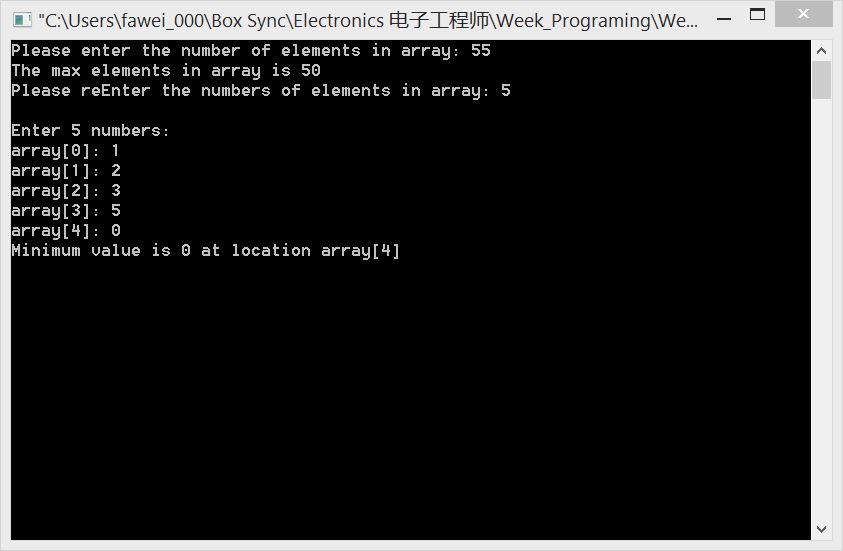
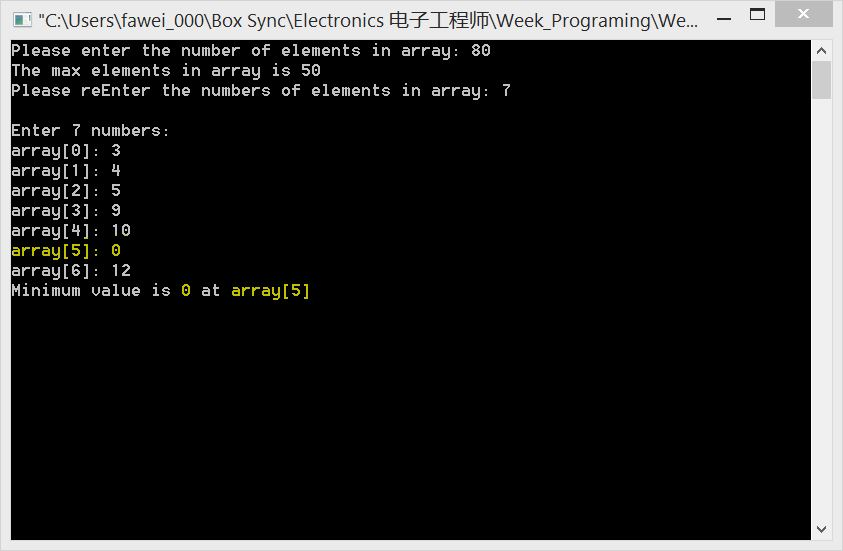
32. Min Value in array

diff --git a/32. Min Value in array/main.c b/32. Min Value in array/main.c
@@ -19,7 +19,7 @@ How it work: First, we assume that minimum element occurs at the beginning of ar
 
 int main()
 {
-    int array[50],min,size,i,location=1;
+    int array[50],min,size,i,location;
     printf("Please enter the number of elements in array: ");
     scanf("%d",&size);
     if(size > 50 )
@@ -45,6 +45,6 @@ int main()
             location = i;
         }
     }
-    printf("Minimum value is %d at location array[%d]",min,location);
+    printf("Minimum value is %d at array[%d]",min,location);
     return 0;
 }
